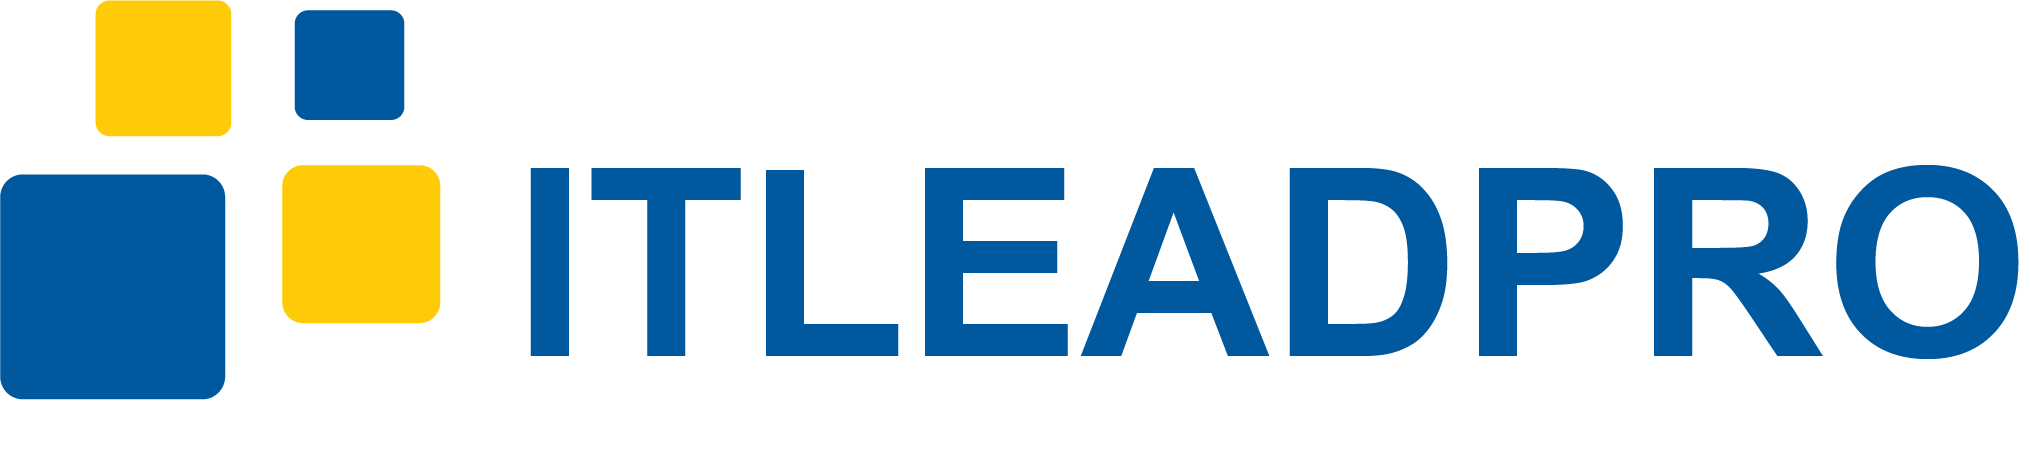
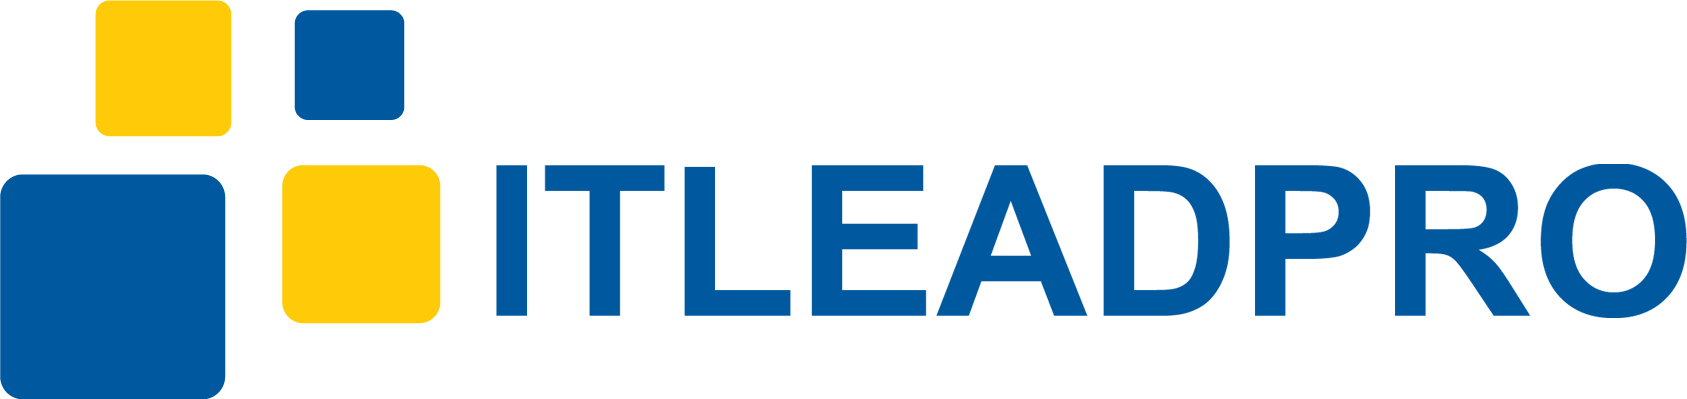
add header

Changed region(s): [[0.0, 0.0, 1.0, 1.0]]

diff --git a/src/containers/authen/profile.js b/src/containers/authen/profile.js
@@ -1,0 +1,104 @@
+import React from 'react';
+
+import Layout from '../../common/layout';
+import './profile.scss'
+
+import { Upload, Icon, message } from 'antd';
+
+function getBase64(img, callback) {
+    const reader = new FileReader();
+    reader.addEventListener('load', () => callback(reader.result));
+    reader.readAsDataURL(img);
+  }
+  
+function beforeUpload(file) {
+    const isJPG = file.type === 'image/jpeg';
+    if (!isJPG) {
+      message.error('You can only upload JPG file!');
+    }
+    const isLt2M = file.size / 1024 / 1024 < 2;
+    if (!isLt2M) {
+      message.error('Image must smaller than 2MB!');
+    }
+    return isJPG && isLt2M;
+  }
+  
+export class Profile extends React.Component{
+        constructor(props){
+            super(props);
+            this.state = {
+                loading: false,
+                data: [
+                    {title: 'ID', content: 'User001', editable: 'true'},
+                    {title: 'Fullname', content: 'Ahihi Nguyen', editable: 'true'},
+                    {title: 'Date of birth', content: '01/01/2000', editable: 'false'},
+                    {title: 'Position', content: 'Developer', editable: 'true'},
+                    {title: 'Phone number', content: '0912 345 678', editable: 'true'},
+                    {title: 'Email', content: 'ahihi@gmail.com', editable: 'false'},
+                    {title: 'Start date', content: '01/01/2019', editable: 'false'},
+                ]
+            }
+        };
+      
+        handleChange = info => {
+          if (info.file.status === 'uploading') {
+            this.setState({ loading: true });
+            return;
+          }
+          if (info.file.status === 'done') {
+            // Get this url from response in real world.
+            getBase64(info.file.originFileObj, imageUrl =>
+              this.setState({
+                imageUrl,
+                loading: false,
+              }),
+            );
+          }
+        };
+
+    render(){
+        const uploadButton = (
+            <div>
+              <Icon type={this.state.loading ? 'loading' : 'plus'} />
+              <div className="ant-upload-text">Upload</div>
+            </div>
+          );
+        const { imageUrl, data } = this.state;
+        return(
+            <Layout>
+                <div className="user-profile">
+                    <div className="row">
+                        <div className="col-left">
+                            <span>Avatar:</span>
+                        </div>
+                        <div className="col-right">
+                        <Upload
+                            name="avatar"
+                            listType="picture-card"
+                            className="avatar-uploader"
+                            showUploadList={false}
+                            action="https://www.mocky.io/v2/5cc8019d300000980a055e76"
+                            beforeUpload={beforeUpload}
+                            onChange={this.handleChange}
+                        >
+                            {imageUrl ? <img src={imageUrl} alt="avatar" /> : uploadButton}
+                        </Upload>
+                        </div>
+                    </div>
+                    {data.map( (item, i) => {
+                        return(
+                            <div key={i} className="row">
+                                <div className="col-left">
+                                    <span>{item.title}</span>
+                                </div>
+                                <div className="col-right">
+                                    <span>{item.content}</span>
+                                </div>
+                            </div>
+                        )
+                    })}
+                </div>
+            </Layout>
+        );
+    }
+}

diff --git a/src/components/Header/index.js b/src/components/Header/index.js
@@ -2,23 +2,58 @@ import React from 'react';
 
 import 'antd/dist/antd.css';
 import './index.scss';
-import headerLogo from '../../assets/itleadpro_logo_square.png';
+import headerLogo from '../../assets/itleadpro.png';
 
-import { Row, Col } from 'antd';
+import { Row, Col, Icon, Menu } from 'antd';
 
-class Header extends React.Component{
+const { SubMenu } = Menu;
+export class Header extends React.Component{
     render(){
         return(
-            <Row>
-                <Col md={12}>
-                    <img src={headerLogo} />
-                </Col>
-                <Col md={12}>
+            <div className='header-bar'>
+                <Row className='format'>
+                    <Col md={12} className='logo'>
+                        <img src={headerLogo} />
+                    </Col>
+                    <Col md={12} className='left-menu'>
+                        <Menu mode="horizontal">
+                            <SubMenu
+                                title={
+                                    <span className="submenu-title-wrapper">
+                                        <Icon type="calendar" />
+                                        </span>
+                                }
+                            >
+                                <Menu.Item>Attendance</Menu.Item>
+                                <Menu.Item>Create a day-off</Menu.Item>
+                            </SubMenu>
+                            <SubMenu
+                                title={
+                                    <span className="submenu-title-wrapper">
+                                        <Icon type="mail" />
+                                        </span>
+                                }
+                            >
 
-                </Col>
-            </Row>
+                            </SubMenu>
+                            <SubMenu
+                                title={
+                                    <span className="submenu-title-wrapper">
+                                        <Icon type="user" />
+                                        </span>
+                                }
+                            >
+                                <Menu.Item>
+                                    <a href='/profile'>Profile</a>
+                                </Menu.Item>
+                                <Menu.Item>Days-off list</Menu.Item>
+                                <Menu.Item>Log out</Menu.Item>
+                            </SubMenu>
+                        </Menu>
+                    </Col>
+                </Row>
+            </div>
+            
         );
     }
 }
-
-export default Header;

diff --git a/src/containers/root.js b/src/containers/root.js
@@ -2,6 +2,7 @@ import React, { Component } from 'react'
 import { Router, Switch, Route } from 'react-router-dom'
 import { Provider } from 'react-redux';
 import { Home } from '../containers/authen/home'
+import { Profile } from '../containers/authen/profile'
 import  Login  from '../containers/guest/login'
 import Change from './guest/change_password'
 import Find from './guest/forgot_password'
@@ -19,11 +20,12 @@ export default class Root extends Component {
       <Provider store={persistor}>
         <Router history={browserHistory}>
           <Switch>
-            <PrivateRoute exact path="/" component={Home} />
+            {/* <PrivateRoute exact path="/" component={Home} /> */}
             <Route path="/login" component={Login} />
             <Route path="/changepassword" component={Change}/>
             <Route path="/findpassword" component={Find}/>
             <Route path="/home" component={Home} />
+            <Route path="/profile" component={Profile} />
           </Switch>
         </Router>
       </Provider>

diff --git a/src/containers/authen/profile.scss b/src/containers/authen/profile.scss
@@ -1,0 +1,23 @@
+.user-profile{
+    max-width: 650px;
+    margin: auto;
+    padding: 30px;
+    margin-top: 50px;
+    border: 1px solid rgba(0, 0, 0, 0.1);
+    border-radius: 5px;
+    box-shadow: 5px 5px 10px rgba(0, 0, 0, 0.1);
+    .row{
+        display: flex;
+        flex: 1;
+        .col-left{
+            width: 45%;
+            margin-bottom: 20px;
+            font-weight: 600;
+            font-family: Arial, Helvetica, sans-serif;
+        }
+        .col-right{
+            width: 55%;
+            margin-bottom: 20px;
+        }
+    }
+}

diff --git a/src/containers/authen/home.js b/src/containers/authen/home.js
@@ -1,14 +1,13 @@
 import React, { Component } from 'react'
-import { Button } from 'antd';
 
-import Header from '../../components/Header/index';
+import Layout from '../../common/layout';
 
 export class Home extends Component {
     render () {
         return (
-            <div className="container">
-                <Header />
-            </div>
+            <Layout>
+                
+            </Layout>
         )
     }
 }

diff --git a/src/components/Header/index.scss b/src/components/Header/index.scss
@@ -2,4 +2,21 @@
     height: 60px;
     width: 100%;
     box-shadow: 5px 5px 10px rgba(0, 0, 0, 0.1);
+    .logo{
+        height: 100%;
+        display: flex;
+        align-items: center;
+        img {
+            height: 45px;
+            padding-left: 20px;
+        }
+    }
+    .left-menu {
+        height: 100%;
+        display: flex;
+        align-items: center;
+    }
+    .format{
+        height: 100%;
+    }
 }

diff --git a/src/common/layout.js b/src/common/layout.js
@@ -1,0 +1,15 @@
+import React from 'react';
+
+import { Header } from '../components/Header/index';
+import { Container } from '../components/Container/index';
+
+export default class Layout extends React.Component {
+    render(){
+        return(
+            <div>
+                <Header />
+                <Container>{this.props.children}</Container>
+            </div>
+        )
+    }
+}

diff --git a/src/index.css b/src/index.css
@@ -32,3 +32,23 @@ code {
 .ant-form-item-with-help {
   margin-bottom: 5px;
 }
+
+.ant-menu-horizontal{
+  border-bottom: none;
+  right: 0px;
+  position: absolute;
+}
+
+.ant-menu-item .anticon, .ant-menu-submenu-title .anticon{
+  font-size: 20px;
+  margin-right: 0px;
+}
+
+.ant-menu-horizontal > .ant-menu-item {
+  margin: 0px 10px;
+}
+
+.ant-upload img{
+  width: 86px;
+  height: auto;
+}

diff --git a/src/components/Container/index.js b/src/components/Container/index.js
@@ -1,0 +1,11 @@
+import React from 'react';
+
+export class Container extends React.Component {
+    render(){
+        return(
+            <div>
+                {this.props.children}
+            </div>
+        )
+    }
+}
